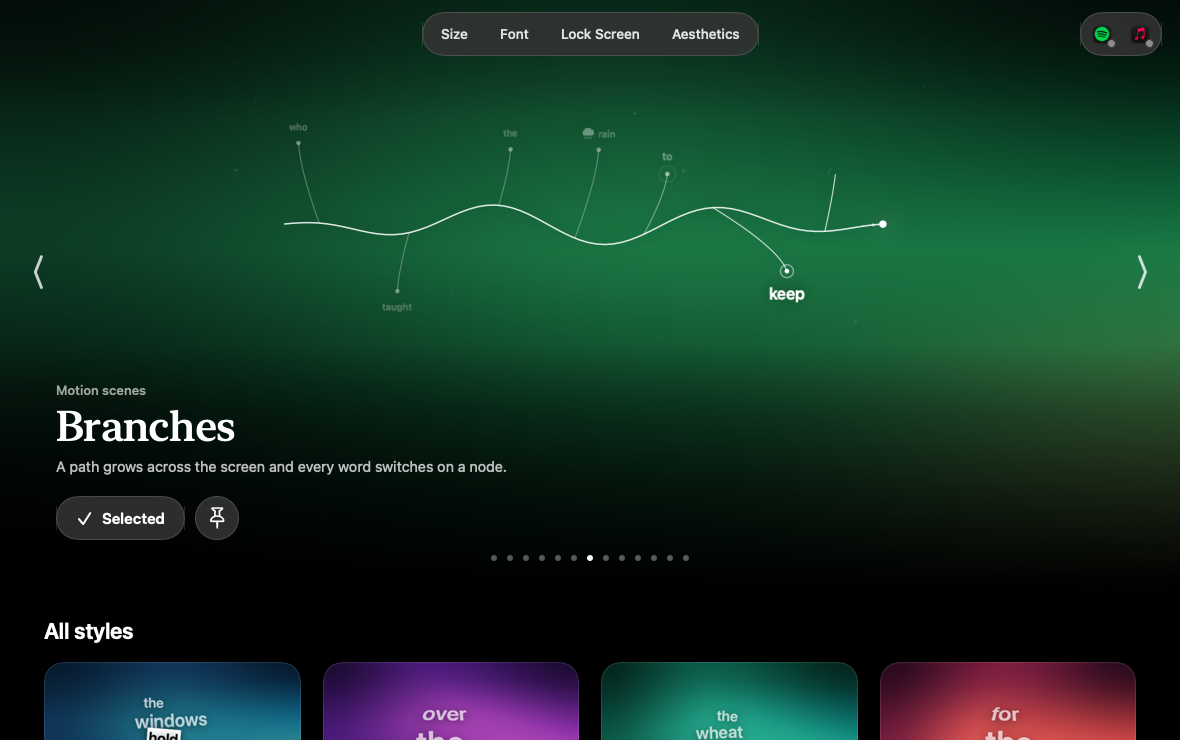
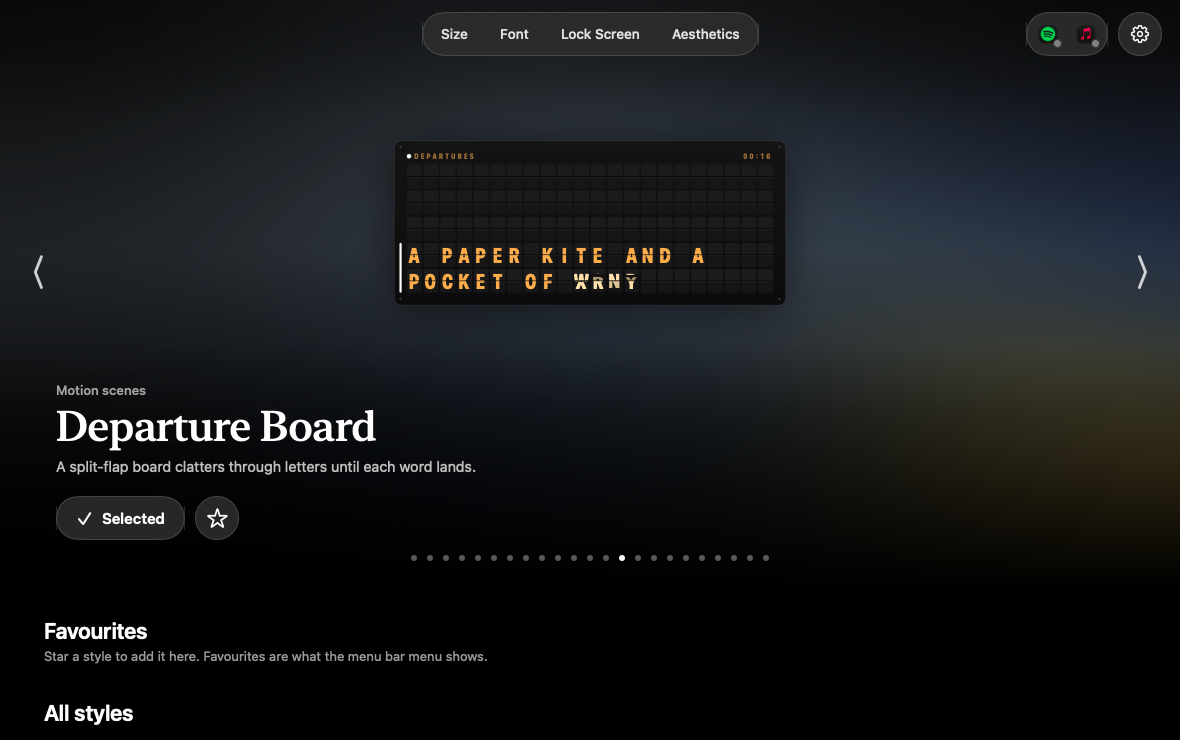
docs: refresh the README pictures for 23 styles, Favourites and the Settings gear

diff --git a/README.md b/README.md
@@ -77,7 +77,7 @@ source. It keeps itself up to date.
 ## Features
 
 <p align="center">
-  <img src="assets/window.png" alt="The Stanza window: the Branches style playing in the large preview at the top, with the Size, Font, Lock Screen and Aesthetics panel buttons above it and the first row of style tiles below" width="100%">
+  <img src="assets/window.png" alt="The Stanza window: the Departure Board style playing in the large preview, with the Size, Font, Lock Screen and Aesthetics panels, the player buttons and the Settings gear across the top, and the Favourites row below" width="100%">
 </p>
 
 The window (the gallery) plays one style large at the top, the one in use or the one you are browsing, with every style in a grid of tiles below it. Each preview
@@ -128,10 +128,20 @@ runs through `LyricStage`, the same view that draws the real overlay, so what yo
   <img src="assets/style-notifications.png" alt="Notifications style: lyric lines as stacked lock-screen alerts" width="49%">
 </p>
 
+<p align="center">
+  <img src="assets/style-departureboard.png" alt="Departure Board style: lyric lines on a split-flap board" width="49%">
+  <img src="assets/style-highlighter.png" alt="Highlighter style: a marker sweeping the sung words on a printed card" width="49%">
+</p>
+
+<p align="center">
+  <img src="assets/style-receipt.png" alt="Receipt style: the song printed line by line on a till receipt" width="49%">
+  <img src="assets/style-calendar.png" alt="Calendar style: each lyric line as an event in a day planner" width="49%">
+</p>
+
 <p align="center"><sub>Frames drawn by <code>Stanza --render</code> with the app's built-in sample lyrics.</sub></p>
 
 <p align="center">
-  <img src="assets/shelf.png" alt="The All styles shelf in the window: twelve style tiles in three rows" width="100%">
+  <img src="assets/shelf.png" alt="The window's Favourites row and the All styles shelf: all 23 style tiles" width="100%">
 </p>
 
 <p align="center"><sub>The shelf of style tiles in the window, cropped to its first three rows; the Map tile sits below.</sub></p>
